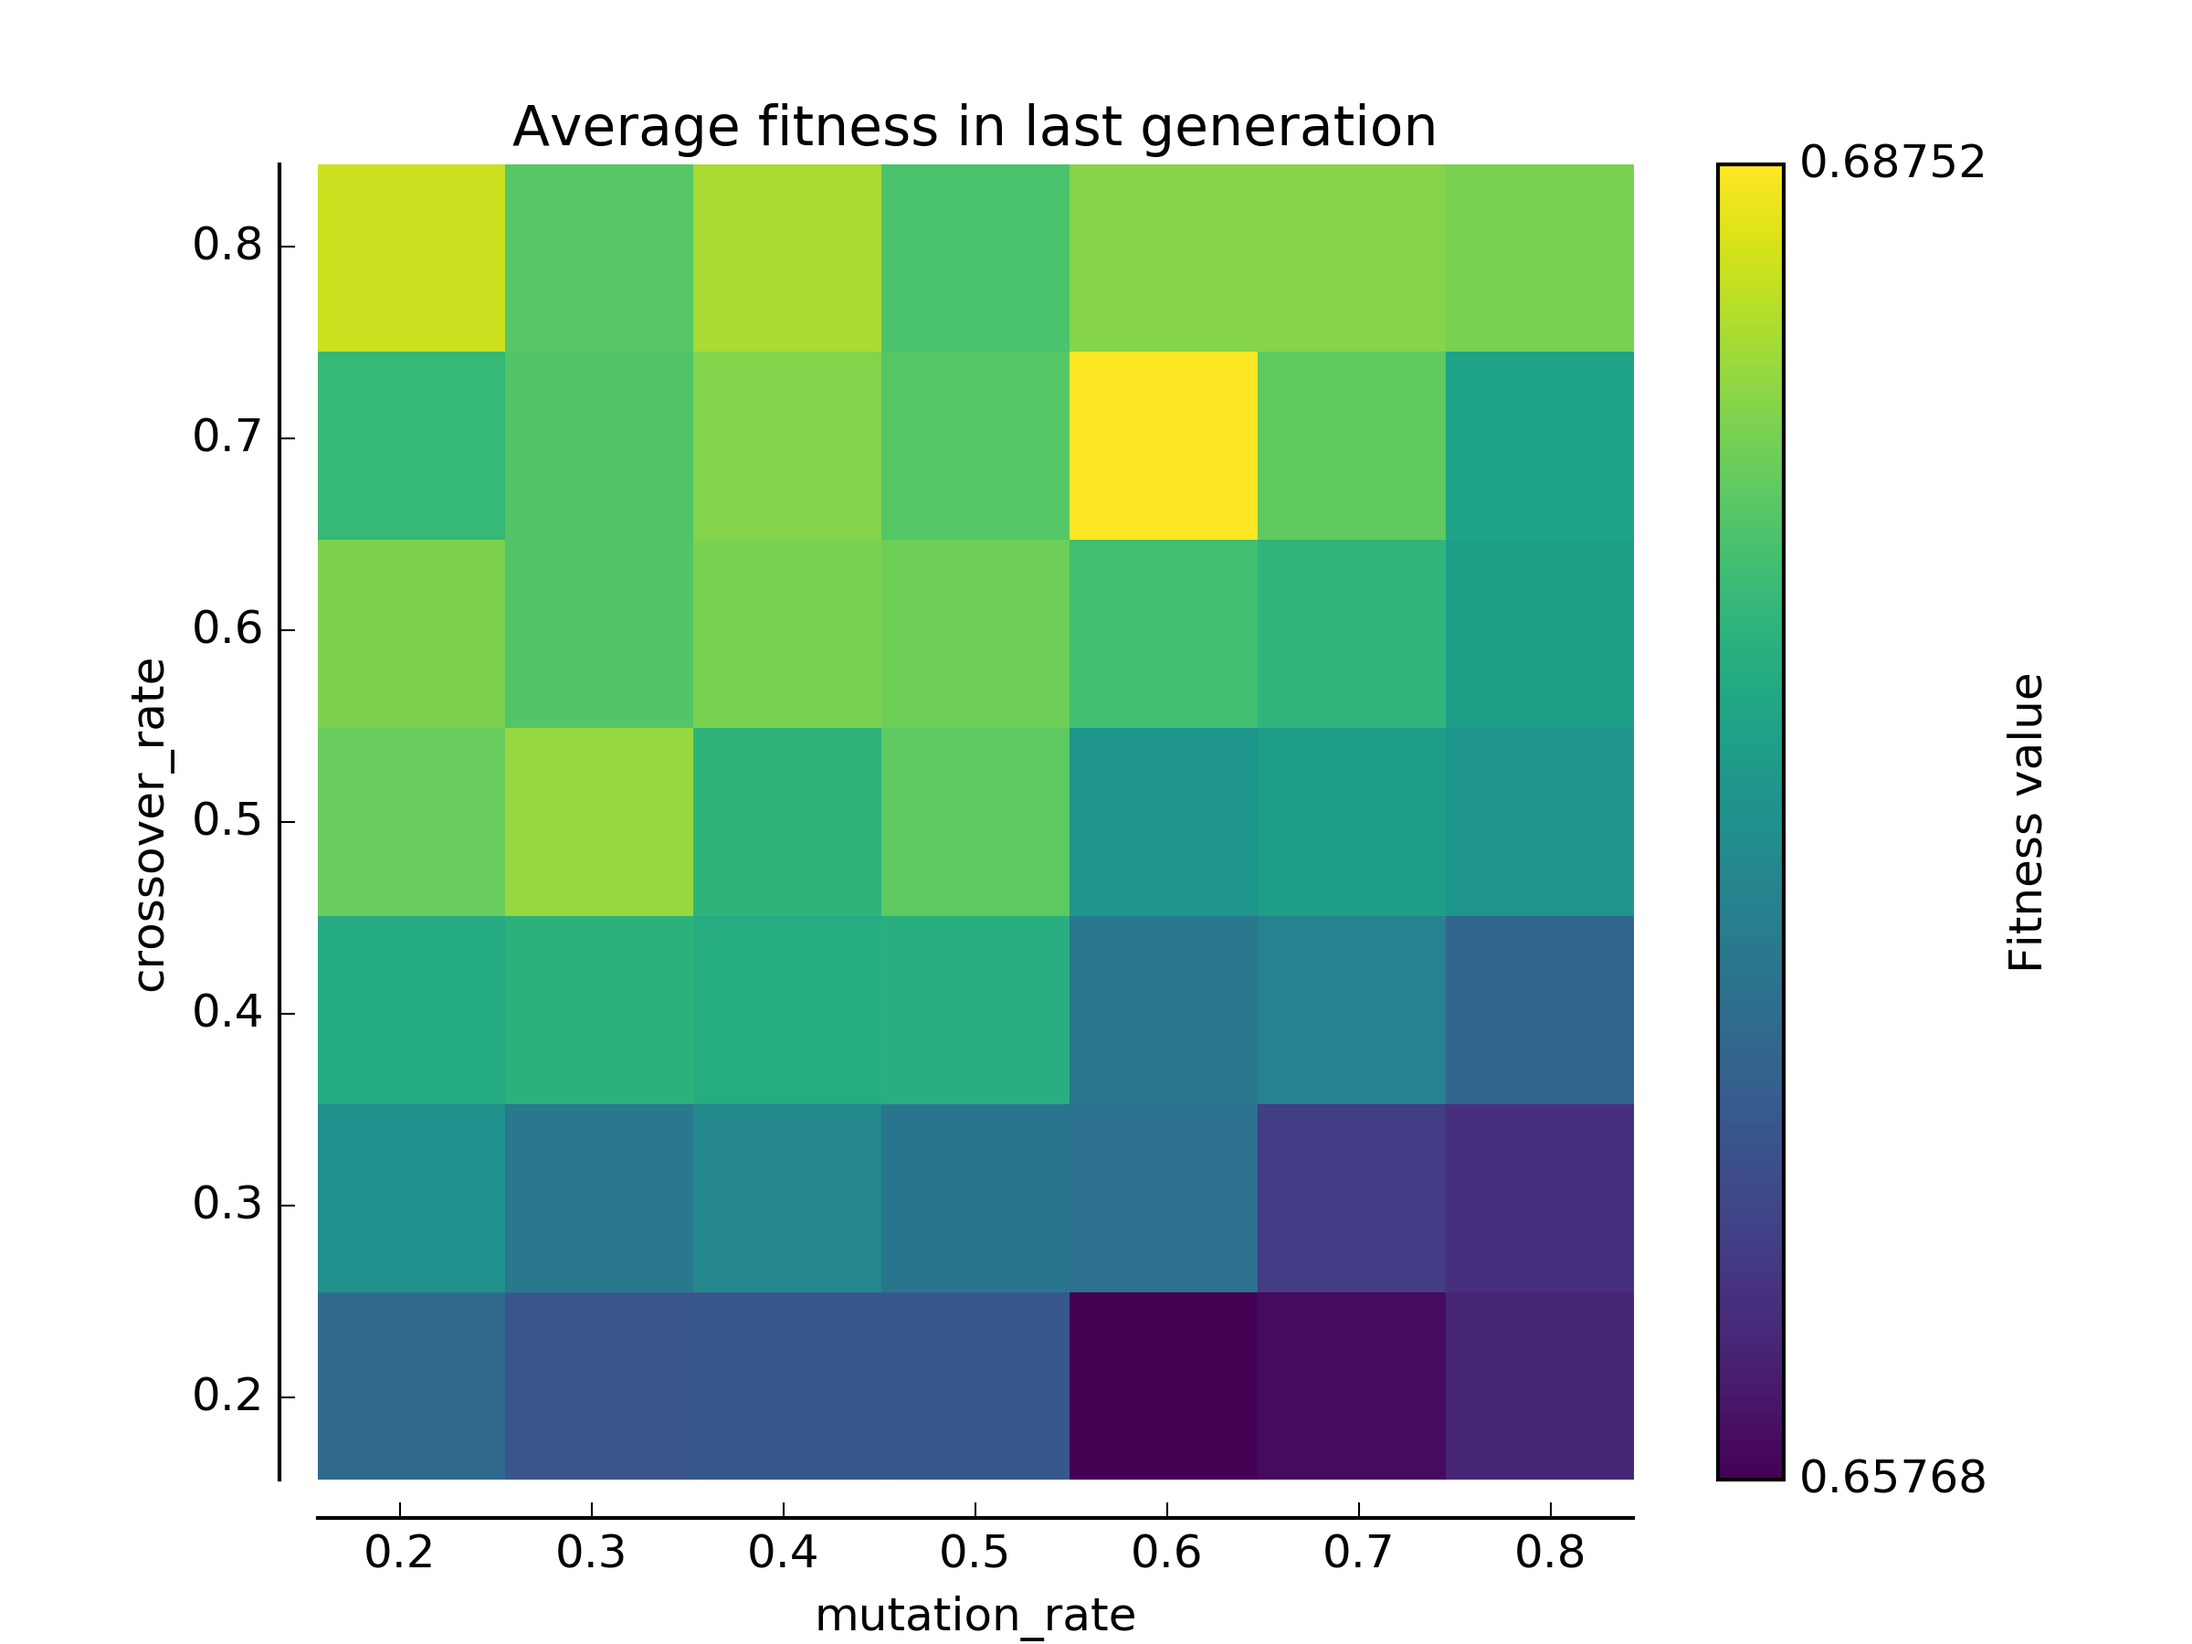
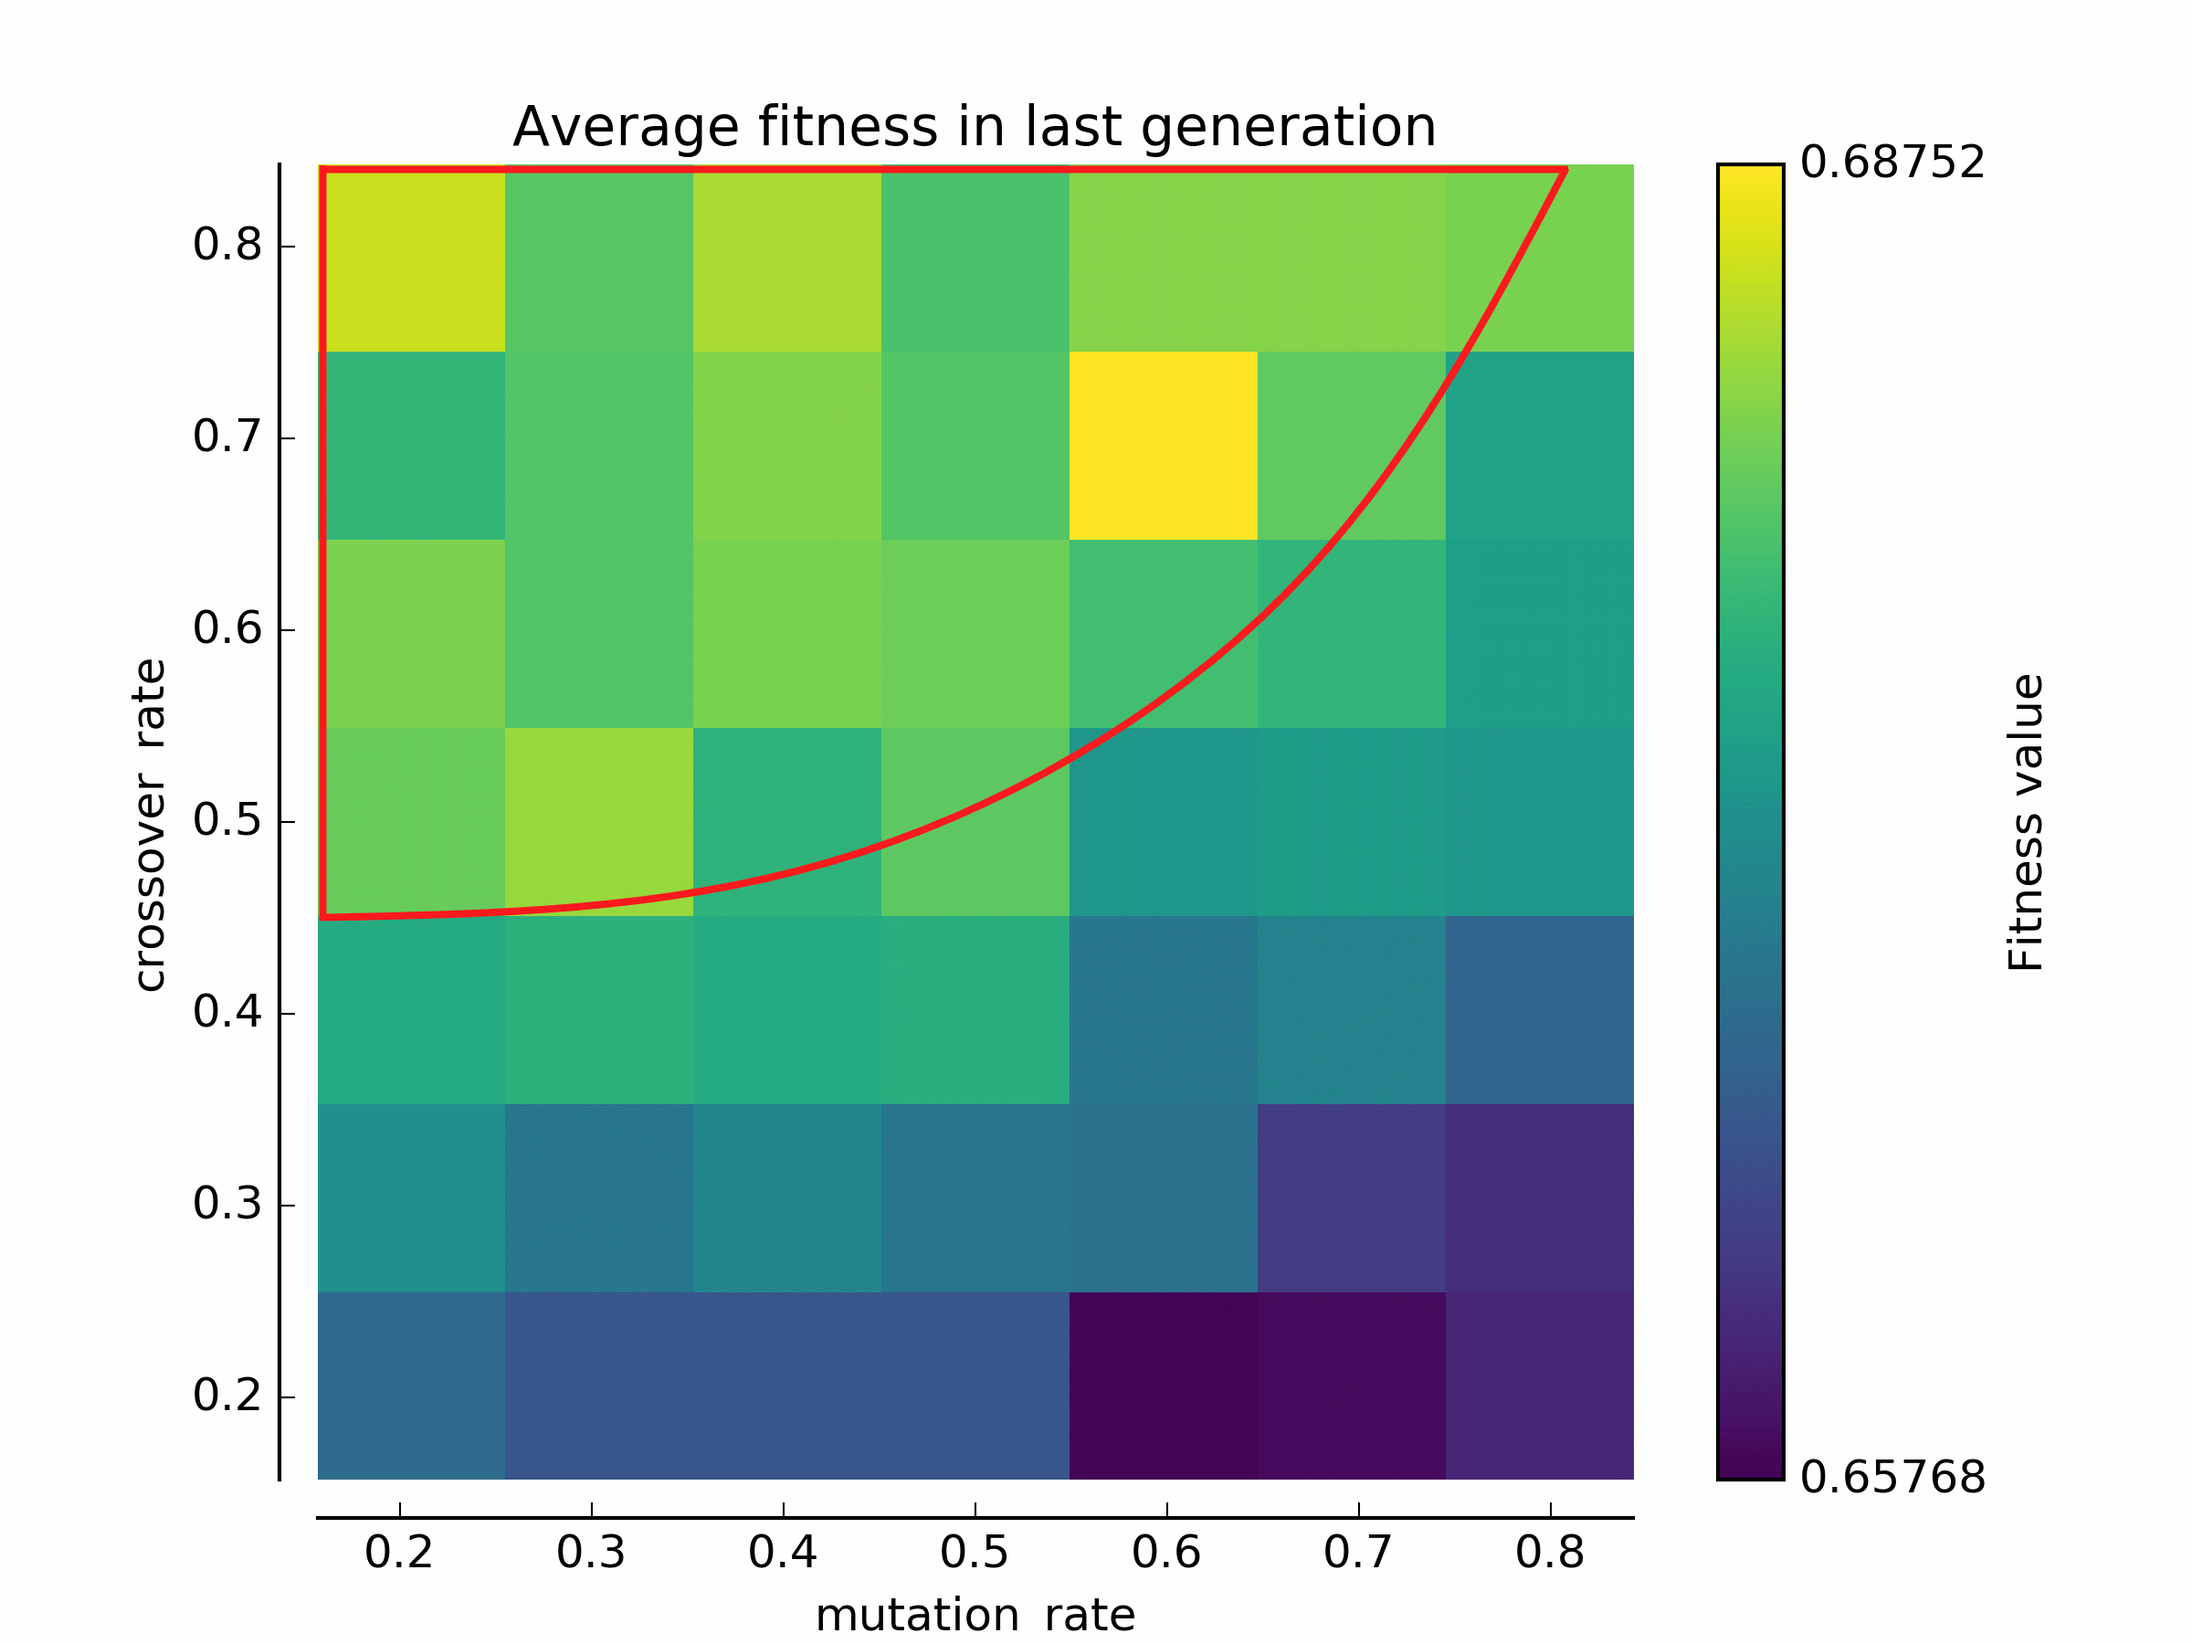
Write result and evaluation in experiment 1. Update heat map.

diff --git a/experiment1.tex b/experiment1.tex
@@ -3,33 +3,43 @@
 % !TEX spellcheck = en-US
 %%=========================================
 \section{Experiment 1}
-In this experiment, the aim is to find a good combination of crossover rate and mutation rate.
+In this experiment, the aim is to find good values for crossover rate and mutation rate.
 
 \subsection{Configuration}
-\begin{minipage}{\linewidth}
-\centering
-\captionof{table}{Table Title TODO} \label{tab:title} 
-\begin{tabular}{ C{3.5in} C{1.6in} }\toprule[1.5pt]
-\bf Parameter & \bf Value \\
+
+\begin{center}
+\begin{longtable}{p{5cm} p{7cm}}
+\caption[Experiment configuration]{Experiment configuration} \label{tab:exp1_configuration} \\
+
+\hline \multicolumn{1}{l}{\textbf{Parameter}} & \multicolumn{1}{l}{\textbf{Value}} \\ \hline 
+\endfirsthead
+
+\multicolumn{2}{c}%
+{{\bfseries \tablename\ \thetable{} -- continued from previous page}} \\
+\hline \multicolumn{1}{l}{\textbf{Parameter}} & \multicolumn{1}{l}{\textbf{Value}} \\ \hline 
+\endhead
+
+\hline \multicolumn{2}{r}{{Continued on next page}} \\ \hline
+\endfoot
+
+\hline \hline
+\endlastfoot
+
+Number of generations & 20 \\
 \midrule
-  Number of generations & 20 \\
+Fitness function & Local similarity \\
 \midrule
-  Fitness function & Local similarity \\
+Target sound & Drum loop \\
 \midrule
-  Target sound & Drum loop \\
+Input sound & White noise \\
 \midrule
-  Input sound & White noise \\
+Effect & Distortion and resonant low-pass filter \\
 \midrule
-  Effect & Distortion and resonant low-pass filter \\
+Audio features & mfcc\_0, mfcc\_0\_\_derivative, mfcc\_1 \\
 \midrule
-  Audio features & mfcc\_0, mfcc\_0\_\_derivative, mfcc\_1 \\
-\midrule
-  Number of runs & 250 per configuration \\
-\bottomrule[1.25pt]
-\end {tabular}\par
-\bigskip
-Should be a caption TODO
-\end{minipage}
+Number of runs & 150 per configuration \\
+\end{longtable}
+\end{center}
 
 \subsection{Fitness function}
 The local similarity fitness function is based on the average euclidean distance between the feature vector of the target sound and the output sound in the k frames of the two sounds.
@@ -47,12 +57,12 @@ Function LOCAL_SIMILARITY(target, individual):
 
 where \texttt{EUCLIDEAN\_DISTANCE} is $d(p,q)=\sqrt{(q_1-p_1)^2+(q_2-p_2)+...+(q_n-p_n)^2}$
 
-\subsection{Evaluation of configurations}
-Figure 4.1 TODO shows that ...
+\subsection{Results and evaluation}
+Figure \ref{fig:exp1_heatmap} shows that one should avoid using a high mutation rate and a low crossover rate. Instead, one of the combinations inside the red region should do well. Bear in mind that the differences between pure yellow and lime green are small in this region, and that these small differences are not statistically significant. The variance could be reduced with more runs, but due to computational time, the number of runs per configuration was limited to 150. The yellow spot is probably a good configuration, albeit not necessarily the best. Muration rate = 0.6 and crossover rate = 0.7 are used in the following experiments.
 
 \begin{figure}[h]
     \centering
     \includegraphics[width=0.99\textwidth]{grid_search_crossover_mutation_avg}
-    \caption{TODO caption}
-    \label{fig:grid_search_crossover_mutation_avg}
+    \caption{Heat map with a red region, indicating the best configurations}
+    \label{fig:exp1_heatmap}
 \end{figure}

diff --git a/experiment4.tex b/experiment4.tex
@@ -50,7 +50,7 @@ The results in the second configuration, were much better. The author could hear
 
 The takeaway from this experiment is that
 \begin{itemize}  
-\item the collection of features used for similarity measures has a high impact on the resul
+\item the collection of features used for similarity measures has a high impact on the result
 \item bark bands are useful
 \end{itemize}
 
